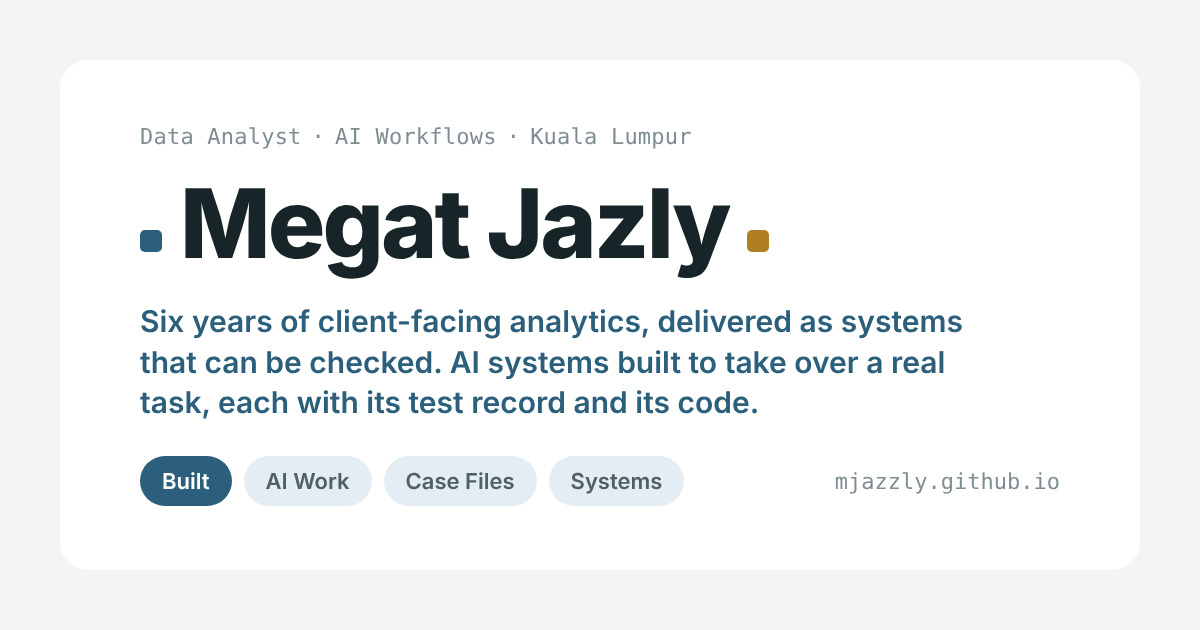
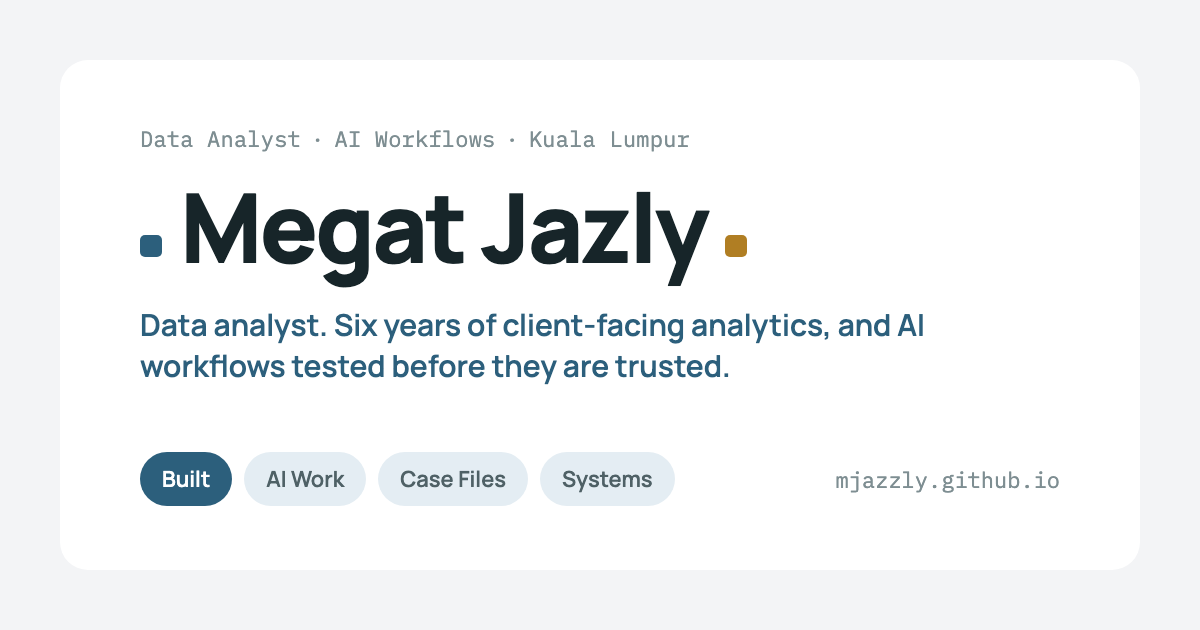
Add the field's terms beside the site's own in the glossaries, reconcile WORK-04's smallest model line and Built's tool count, and set the home line, meta and preview image to the new line under the name

diff --git a/aiwork.html b/aiwork.html
@@ -876,7 +876,7 @@
     </div>
     <h3>A weekly brief where every sentence shows where it came from</h3>
     <p class="replaces"><b>Replaces:</b> the afternoon spent pulling the brief together by hand, and a page whose sentences cannot be traced afterwards. Every sentence on the released page <b>names the file and the line it came from</b>, and the same week written twice gives the same facts from the same sources.</p>
-    <div class="fit"><p><b>For:</b> anyone who writes or signs off a weekly status: a programme lead, a team lead, a sponsor who has to stand behind what the page says.</p><dl class="measure"><div><dt>Trust</dt><dd>every sentence names its source; no false fact in ten runs</dd></div><div><dt>Possible</dt><dd>a weekly page a sponsor can stand behind, line by line</dd></div><div><dt>Cost</dt><dd>US$0.21 a brief; the smallest model misses one case</dd></div></dl></div>
+    <div class="fit"><p><b>For:</b> anyone who writes or signs off a weekly status: a programme lead, a team lead, a sponsor who has to stand behind what the page says.</p><dl class="measure"><div><dt>Trust</dt><dd>every sentence names its source; no false fact in ten runs</dd></div><div><dt>Possible</dt><dd>a weekly page a sponsor can stand behind, line by line</dd></div><div><dt>Cost</dt><dd>US$0.21 a brief, largest model; on the smallest it is below its bar, watched by the scorecard</dd></div></dl></div>
 
     <div class="case-foot"><button type="button" class="case-toggle" data-open="Read the entry" aria-expanded="true" aria-controls="work-04-body" hidden><span class="case-toggle-label">Read the entry</span><svg class="ic" aria-hidden="true"><use href="#ic-chevron"/></svg></button></div>
     <div class="case-body" id="work-04-body">
@@ -1096,7 +1096,7 @@
       <div class="row"><span class="tier">v1.0 · sweep, smallest</span><span class="marks"><i></i><i></i><i></i><i class="miss"></i></span><span class="score"><b>three of four builds</b> at their bar on the smallest model, for US$0.15 together. The sourced brief, then at v1.2, missed its bar.</span></div>
       <div class="row"><span class="tier">v1.0 · sweep, largest</span><span class="marks"><i></i><i></i><i></i><i class="miss"></i></span><span class="score"><b>three of four</b>, for US$4.68. The sourced brief missed State A on a page identical to its earlier passing run, and <b>the comparison named the case</b>. The cause was the brief's own state check, fixed in its v1.3.</span></div>
       <div class="row"><span class="tier">v1.1 · own cases</span><span class="marks"><i></i><i></i><i></i><i></i><i class="decline"></i><i class="decline"></i><i></i><i></i><i></i></span><span class="score"><b>nine of nine</b> of its own test cases: both planted misses named by their case, the live one for US$0.017, the doubled price named with its share and nothing else, <b>the answer file found before any model call</b>, and the broken file refused with the field named.</span></div>
-      <div class="row"><span class="tier">v1.1 · sweep, both</span><span class="marks"><i class="miss"></i><i></i></span><span class="score">The sourced brief at v1.3: <b>bar met on the largest model</b>, State A from a miss to a match. The smallest model still misses one case, so the largest stays the brief's smallest passing model.</span></div>
+      <div class="row"><span class="tier">v1.1 · sweep, both</span><span class="marks"><i class="miss"></i><i></i></span><span class="score">The sourced brief at v1.3: <b>bar met on the largest model</b>, State A from a miss to a match. The smallest model still missed one case, so the largest stays the brief's smallest passing model.</span></div>
       <div class="row"><span class="tier">v1.2 · in CI</span><span class="marks"><i></i><i></i><i></i><i></i><i></i><i></i></span><span class="score"><b>six sweeps on the smallest model</b>, every build at the commit pinned in its lock file, each committed on a green run for about US$0.15. A push starts one; the weekly run is started by an outside scheduler, because GitHub's own scheduler created no run here. Only a build that passes on the smallest model can turn a run red.</span></div>
       <div class="row"><span class="tier">v1.2 · rerun</span><span class="marks"><i class="miss"></i><i></i></span><span class="score">In one sweep the sourced brief missed <b>A section with no source</b> on the smallest model, a case it had held. <b>One rerun matched it</b>, so the run stayed green with the miss listed. The rerun missed three other cases, so the brief is below its bar there again and is watched, not gated.</span></div>
       <div class="row"><span class="tier">v1.2 · fifth build</span><span class="marks"><i></i><i></i><i></i><i class="miss"></i><i></i></span><span class="score">The contact pipeline joins with its eight earlier runs brought in, <b>43 of 43 on both models</b>. The first sweep of five builds: <b>four at their bar on the smallest model</b>; the sourced brief missed its bar there.</span></div>
@@ -1783,15 +1783,18 @@
   <div class="case-body" id="words-body">
   <ul class="words">
     <li><b>Test case.</b> One input with a known right answer. The first two entries have eight each: five ordinary, one it must decline, two that test what it remembers between runs. The third has twenty-eight questions: twenty with exact answers, six it must stop on or refuse, two asked a second time. The fourth has eight weekly briefs: six test weeks, one written twice, one with a new note added.<span> The fifth has nine that test the scorecard itself: a clean sweep, a planted miss in a recorded run, a rule removed from a real skill, a doubled price, an answer file left where the model could read it, a file with a field missing, the same run twice, a new version and a new build. The sixth has one test round of 29 contact rows, each a planted case, with 22 job titles to read and three stop tests. The seventh runs the first entry's eight cases again, on three chat platforms, from one sheet with no code. The eighth runs them in CI on every change, before the change can reach the live service.</span></li>
-    <li><b>Claim.</b> One checkable fact in a sentence, such as a number, a name, a date or a quote, paired with the file and the line or row it came from.</li>
+    <li><b>Claim.</b> One checkable fact in a sentence, such as a number, a name, a date or a quote, paired with the file and the line or row it came from. Tying each sentence to its source this way is called <b>grounding</b>.</li>
+    <li><b>Hallucination.</b> A statement from a model that no source supports. The sourced brief removes any sentence it cannot tie to a source before the page is released.</li>
+    <li><b>Structured output.</b> An answer returned in a fixed shape, such as the same five sections or a tracker row, so code can check it.</li>
     <li><b>Expected result.</b> The right answer for a case, written down before the first run, so the run is marked against it and never the other way round.</li>
-    <li><b>Blind run.</b> A test where the model cannot see the expected answers.</li>
+    <li><b>Blind run.</b> A test where the model cannot see the expected answers. Testing a model this way, against answers written first, is what the field calls <b>evaluation</b>, or <b>evals</b>.</li>
     <li><b>Test harness.</b> A script that runs every test case the same way, checks the results against the expected ones, and records the run with its cost.</li>
     <li><b>Sweep.</b> One run of every build on every model, started by one command.</li>
     <li><b>Regression.</b> A case that passed before and misses after a change.</li>
-    <li><b>Stop gate.</b> A rule in code that halts the run until a person answers, or declines the task outright.</li>
-    <li><b>Tool.</b> A function in code the model calls by itself to act. A tool server is the program that holds the tools.</li>
-    <li><b>Model tier.</b> The size of model, from the largest to the smallest and cheapest. A build that passes on a smaller tier costs less to run.</li>
+    <li><b>Stop gate.</b> A rule in code that halts the run until a person answers, or declines the task outright. Also called a <b>guardrail</b>. Where the gate waits for a person, the field calls it <b>human in the loop</b>.</li>
+    <li><b>Tool.</b> A function in code the model calls by itself to act. A tool server is the program that holds the tools. A model calling a tool is <b>tool calling</b>. The tool servers here connect through <b>MCP</b> (Model Context Protocol), a shared standard for connecting tools to a model.</li>
+    <li><b>Agent.</b> A model that decides its own next step and calls tools in a loop, until the task is done or a stop gate halts it. The first four entries and the eighth are agents.</li>
+    <li><b>Model tier.</b> The size of model, from the largest to the smallest and cheapest. A build that passes on a smaller tier costs less to run. Model here means a <b>large language model (LLM)</b>.</li>
     <li><b>Cache.</b> Context the model has already read, kept so the next call does not pay for reading it again.</li>
     <li><b>Version.</b> One numbered state of the rules. A version changes only after a run, and the run that earned it is on the record.</li>
     <li><b>Repository.</b> A project's code and its full history, kept on GitHub where anyone can read it, run it, and see how it changed.</li>

diff --git a/index.html b/index.html
@@ -3,7 +3,7 @@
 <head>
 <meta charset="UTF-8"><meta name="viewport" content="width=device-width, initial-scale=1.0"><link rel="preconnect" href="https://fonts.googleapis.com"><link rel="preconnect" href="https://fonts.gstatic.com" crossorigin><link href="https://fonts.googleapis.com/css2?family=Manrope:wght@400;500;600;700;800&family=IBM+Plex+Mono:wght@400;500&display=swap" rel="stylesheet"><link rel="stylesheet" href="style.css?v=20261031e"><link rel="stylesheet" href="motion.css?v=20261109"><link rel="icon" href="favicon.ico" sizes="any"><link rel="icon" href="favicon.svg" type="image/svg+xml"><link rel="icon" href="favicon-192.png" sizes="192x192" type="image/png"><link rel="icon" href="favicon-32.png" sizes="32x32" type="image/png"><link rel="apple-touch-icon" href="apple-touch-icon.png"><meta name="theme-color" content="#2C5F7C">
 <title>Megat Jazly, Data Analyst, AI Workflows, Kuala Lumpur</title>
-<meta name="description" content="Data analyst in Kuala Lumpur. Six years of client-facing analytics, delivered as systems that can be checked, and AI workflows tested before use."><meta property="og:type" content="website"><meta property="og:site_name" content="Megat Jazly"><meta property="og:title" content="Megat Jazly, Data Analyst, AI Workflows, Kuala Lumpur"><meta property="og:description" content="Data analyst in Kuala Lumpur. Six years of client-facing analytics, delivered as systems that can be checked, and AI workflows tested before use."><meta property="og:url" content="https://mjazzly.github.io/"><meta property="og:image" content="https://mjazzly.github.io/preview.png"><meta property="og:image:width" content="1200"><meta property="og:image:height" content="630"><meta name="twitter:card" content="summary_large_image"><script type="application/ld+json">{"@context":"https://schema.org","@type":"Person","name":"Megat Jazly","jobTitle":"Data Analyst","url":"https://mjazzly.github.io/","sameAs":["https://linkedin.com/in/megatjazly","https://github.com/mjazzly"]}</script><meta name="google-site-verification" content="sAA0qM2AJdBLmxCYuufhG49FSe-umtfh3qqlvX_P1nM">
+<meta name="description" content="Data analyst. Six years of client-facing analytics, and AI workflows tested before they are trusted."><meta property="og:type" content="website"><meta property="og:site_name" content="Megat Jazly"><meta property="og:title" content="Megat Jazly, Data Analyst, AI Workflows, Kuala Lumpur"><meta property="og:description" content="Data analyst. Six years of client-facing analytics, and AI workflows tested before they are trusted."><meta property="og:url" content="https://mjazzly.github.io/"><meta property="og:image" content="https://mjazzly.github.io/preview.png"><meta property="og:image:width" content="1200"><meta property="og:image:height" content="630"><meta name="twitter:card" content="summary_large_image"><script type="application/ld+json">{"@context":"https://schema.org","@type":"Person","name":"Megat Jazly","jobTitle":"Data Analyst","url":"https://mjazzly.github.io/","sameAs":["https://linkedin.com/in/megatjazly","https://github.com/mjazzly"]}</script><meta name="google-site-verification" content="sAA0qM2AJdBLmxCYuufhG49FSe-umtfh3qqlvX_P1nM">
 </head>
 <body>
 <!--ICONS-->
@@ -110,8 +110,8 @@
   <div class="hero-text">
   <div class="eyebrow">Data Analyst <span class="dot">·</span> AI Workflows <span class="dot">·</span> Kuala Lumpur</div>
   <h1>Megat Jazly</h1>
-  <div class="role">Data analyst. Six years of client-facing analytics, delivered as systems that can be checked.</div>
-  <p class="thesis">I answer business questions with data, then turn the recurring parts into documented, validated systems for clients across the US, APAC and EMEA. Around that delivery I build AI systems that take over a real task and are tested before they are trusted: <a href="aiwork.html">eight of them, with their test records, are on AI Work</a>, and <a target="_blank" href="https://data-answers.vercel.app" rel="noopener">one answers questions live</a>.</p>
+  <div class="role">Data analyst. Six years of client-facing analytics, and AI workflows tested before they are trusted.</div>
+  <p class="thesis">I answer business questions with data, then turn the recurring parts into documented, validated systems for clients across the US, APAC and EMEA. Around that delivery I build AI systems that take over a real task: <a href="aiwork.html">eight of them, with their test records, are on AI Work</a>, and <a target="_blank" href="https://data-answers.vercel.app" rel="noopener">one answers questions live</a>.</p>
   <div class="hero-links">
     <a href="mailto:megatjazly@gmail.com" title="megatjazly@gmail.com"><svg class="ic" aria-hidden="true"><use href="#ic-mail"/></svg>Email</a>
     <a target="_blank" href="https://linkedin.com/in/megatjazly" rel="me noopener" title="linkedin.com/in/megatjazly"><svg class="ic" viewBox="0 0 16 16" aria-hidden="true" fill="currentColor" stroke="none"><path d="M0 1.146C0 .513.526 0 1.175 0h13.65C15.474 0 16 .513 16 1.146v13.708c0 .633-.526 1.146-1.175 1.146H1.175C.526 16 0 15.487 0 14.854zm4.943 12.248V6.169H2.542v7.225zm-1.2-8.212c.837 0 1.358-.554 1.358-1.248-.015-.709-.52-1.248-1.342-1.248S2.4 3.226 2.4 3.934c0 .694.521 1.248 1.327 1.248zm4.908 8.212V9.359c0-.216.016-.432.08-.586.173-.431.568-.878 1.232-.878.869 0 1.216.662 1.216 1.634v3.865h2.401V9.25c0-2.22-1.184-3.252-2.764-3.252-1.274 0-1.845.7-2.165 1.193v.025h-.016l.016-.025V6.169h-2.4c.03.678 0 7.225 0 7.225z"/></svg>LinkedIn</a>

diff --git a/built.html b/built.html
@@ -158,7 +158,7 @@
       <span class="shape"><svg class="ic" aria-hidden="true"><use href="#ic-server"/></svg>Shape 4</span>
       <h3>A tool server the model calls</h3>
       <ul>
-        <li><b>Meeting Tracker Assistant</b><span>ten tools, four stop gates, a test harness</span></li>
+        <li><b>Meeting Tracker Assistant</b><span>ten tools and three for the library check, four stop gates, a test harness</span></li>
         <li><b>Spreadsheet normaliser</b><span>nine tools, four stop gates, one table out</span></li>
         <li><b>Data answers</b><span>seven tools, every number from a defined metric</span></li>
         <li><b>Sourced brief</b><span>five tools, every sentence checked against its source</span></li>
@@ -373,7 +373,7 @@
       <div class="gate"><span class="g"><svg class="ic" aria-hidden="true"><use href="#ic-hand"/></svg>Stops to ask</span><b>A due date before its own meeting.</b> The record tool refuses the row.</div>
       <div class="gate"><span class="g"><svg class="ic" aria-hidden="true"><use href="#ic-stop"/></svg>Declines</span><b>A transcript marked confidential</b> is left unread and reported as declined.</div>
     </div>
-    <p class="how"><b>How it runs:</b> a small Node.js tool server on my machine, connected through MCP, holding the ten tools; the Claude desktop app starts it and calls the tools as it works. It reads its transcripts from a Google Drive folder, and the tracker and the run log live in files on disk, so next week it reads only the new transcripts and <b>never rewrites an old row</b>. The contacts table stands in for a CRM; the data is synthetic.</p>
+    <p class="how"><b>How it runs:</b> a small Node.js tool server on my machine, connected through MCP, holding the ten tools and the library check's three; the Claude desktop app starts it and calls the tools as it works. It reads its transcripts from a Google Drive folder, and the tracker and the run log live in files on disk, so next week it reads only the new transcripts and <b>never rewrites an old row</b>. The contacts table stands in for a CRM; the data is synthetic.</p>
     <p class="how">The tracker and four more builds in the same shape, each with its record and its code, are on <a href="aiwork.html"><b>AI Work</b></a>.</p>
     <div class="record">
       <p class="rec-head"><b>Tested:</b> five cases plus one it must decline, the expected results written before the first run, rerun blind on two model tiers.</p>
@@ -496,13 +496,13 @@
     <li><b>Claude Project.</b> A workspace with standing instructions and files, so the same context is in place every time. ChatGPT's version is a custom GPT.</li>
     <li><b>Skill.</b> A packaged set of instructions Claude loads for a specific task. Some carry scripts.</li>
     <li><b>Script.</b> Code that does a step the same way every time, without the model deciding.</li>
-    <li><b>Tool.</b> A function in code the model calls by itself to act. A prompt asks it to write; a tool lets it do.</li>
-    <li><b>Tool server.</b> The program that holds the tools. Mine runs on my Mac; the Claude desktop app starts it.</li>
+    <li><b>Tool.</b> A function in code the model calls by itself to act. A prompt asks it to write; a tool lets it do. A model calling a tool is <b>tool calling</b>.</li>
+    <li><b>Tool server.</b> The program that holds the tools. Mine runs on my Mac; the Claude desktop app starts it. It connects through <b>MCP</b> (Model Context Protocol), a shared standard for connecting tools to a model.</li>
     <li><b>API.</b> The way code calls Claude directly, with a key, outside the chat app. The harness and the web app use it.</li>
     <li><b>Node.js and Next.js.</b> Node.js runs JavaScript outside the browser. Next.js is a website framework built on it: the pages and the server code in one project.</li>
     <li><b>Test harness.</b> A script that runs every test case the same way, checks the results against answers written first, and records them.</li>
-    <li><b>Blind run.</b> A test where the model cannot see the expected answers.</li>
-    <li><b>Model tier.</b> The size of model, from the largest to the smallest and cheapest.</li>
+    <li><b>Blind run.</b> A test where the model cannot see the expected answers. Testing a model this way, against answers written first, is what the field calls <b>evaluation</b>, or <b>evals</b>.</li>
+    <li><b>Model tier.</b> The size of model, from the largest to the smallest and cheapest. Model here means a <b>large language model (LLM)</b>.</li>
     <li><b>Claude Code.</b> Claude working inside a project folder: it writes the code, runs it and fixes it.</li>
     <li><b>Spec and tickets.</b> The written plan, broken into small pieces of work, each with a clear finish line.</li>
     <li><b>Python, DuckDB, pytest.</b> The language, a small database that lives in a file, and Python's testing tool.</li>

diff --git a/frames.html b/frames.html
@@ -190,7 +190,7 @@
 <div data-name="Before the words, the structure" class="shot">
   <div class="title-card">
   <h2><span class="badge"><svg class="ic" aria-hidden="true"><use href="#ic-music"/></svg></span>Before the words, the structure</h2>
-  <p class="lead">A song is recognised by its shape long before the words arrive. <b>A prompt that works is written the same way: the structure is fixed first, and the person using it brings the words.</b> A <b>prompt</b> is the request as written to an AI assistant.</p>
+  <p class="lead">A song is recognised by its shape long before the words arrive. <b>A prompt that works is written the same way: the structure is fixed first, and the person using it brings the words.</b> A <b>prompt</b> is the request as written to an AI assistant. Writing a prompt to a fixed structure and testing it on set cases is often called <b>prompt engineering</b>.</p>
   </div>
   <div class="ex stepper" data-stepper>
     <div class="ex-head"><span class="badge"><svg class="ic" aria-hidden="true"><use href="#ic-layers"/></svg></span><div class="sys-head"><span class="sys-id">FRAME-02 · The song bar, and each part's share of the writing grade</span></div></div>

diff --git a/dashboards.html b/dashboards.html
@@ -325,7 +325,7 @@
     <li><b>Month on month growth.</b> The change in revenue from the month before, as a percent of the month before.</li>
     <li><b>Agreement check.</b> The dashboard's own measures run on the assistant's test questions, each answer compared with the expected one, value by value.</li>
     <li><b>Expected answer.</b> The right answer to a test question, generated from a seed with the data, before any run.</li>
-    <li><b>Gate.</b> A point where the assistant must stop or refuse instead of giving a number. A question whose right answer is a refusal has no number to compare.</li>
+    <li><b>Gate.</b> A point where the assistant must stop or refuse instead of giving a number. A question whose right answer is a refusal has no number to compare. Also called a <b>guardrail</b>.</li>
     <li><b>Relationship.</b> A join between two tables in a report. With one table there are none, so no number can be counted twice through one.</li>
     <li><b>Publish to web.</b> Power BI's public link: anyone with it can view the report, with no sign-in.</li>
     <li><b>Slicer.</b> A control on the report that picks what every part shows: here, the month and the branches.</li>

diff --git a/output-06.html b/output-06.html
@@ -165,7 +165,7 @@
   <ul class="words">
     <li><b>Round.</b> One contact export run through every stage once, with its own run record.</li>
     <li><b>Row key.</b> The name the code gives each row when it reads the export. The run record uses it instead of a name or an email.</li>
-    <li><b>Stop.</b> A point where the run halts and prints a count. It goes on only when that stop is confirmed, and a count confirmed wrong halts it.</li>
+    <li><b>Stop.</b> A point where the run halts and prints a count. It goes on only when that stop is confirmed, and a count confirmed wrong halts it. Also called a <b>guardrail</b>. Because it waits for a person to confirm, the field calls it <b>human in the loop</b>.</li>
     <li><b>Scope.</b> The rules in code that keep the US and Canada, take out a blank or broken email, and keep the first of two rows with one email.</li>
     <li><b>Seniority floor.</b> The level a job title must reach to stay: director and above. The model reads the title; the code applies the floor.</li>
     <li><b>Verdict.</b> What the email validation stub says of an address: valid and suspect stay, invalid, honeypot and no result leave.</li>

diff --git a/output-01.html b/output-01.html
@@ -177,7 +177,7 @@
     <li><b>Owner.</b> The person named in the same sentence as the action, looked up in the contacts table. When no one is named, the owner is <b>not stated</b>, never guessed.</li>
     <li><b>Due.</b> The date as said in the meeting, turned into a calendar date from the meeting's own date. When it cannot be, it is kept as said.</li>
     <li><b>Status.</b> <b>Open</b> until done, <b>closed</b> when a later transcript says it happened, <b>confirm</b> while its date waits on a meeting date.</li>
-    <li><b>Gate.</b> A point in the code where the run must stop and ask a person before it writes anything for that transcript.</li>
+    <li><b>Gate.</b> A point in the code where the run must stop and ask a person before it writes anything for that transcript. Also called a <b>guardrail</b>. A gate that waits for a person is what the field calls <b>human in the loop</b>.</li>
     <li><b>Contacts table.</b> A list of names, companies and roles that stands in for a CRM.</li>
     <li><b>Run.</b> One pass over the folder by one model, recorded with its id, its tokens and its cost.</li>
   </ul>

diff --git a/scorecard.html b/scorecard.html
@@ -193,7 +193,7 @@
   <ul class="words">
     <li><b>Build.</b> One of the AI systems on the AI Work page, each with its own test cases, checker and pass rule.</li>
     <li><b>Case.</b> One test input with a known right answer, written down before the first run. A run matches a case when its result equals that answer.</li>
-    <li><b>Gate.</b> A case where the build must stop and ask, or decline the task. The gate is held when the code did so.</li>
+    <li><b>Gate.</b> A case where the build must stop and ask, or decline the task. The gate is held when the code did so. The stop it tests is also called a <b>guardrail</b>.</li>
     <li><b>Bar.</b> The build's own pass rule, such as every case matched and every gate held. The bar is met or not met; there is no partial credit.</li>
     <li><b>Smallest passing.</b> The cheapest model that meets a build's bar. The cost of a full sweep adds up one run per build on that model.</li>
     <li><b>Sweep.</b> One run of every build on every model, started by one command and compared with the sweep before it.</li>

diff --git a/output-04.html b/output-04.html
@@ -233,7 +233,7 @@
   <ul class="words">
     <li><b>Source.</b> One file the week's page is written from. A row is cited by its id, a note or a log by its line number.</li>
     <li><b>Reference.</b> The source and the row or line a sentence rests on, in square brackets at the end of the sentence.</li>
-    <li><b>Claim.</b> One checkable part of a sentence: a number, a name, an owner, a status, a date, a metric, a period or a change.</li>
+    <li><b>Claim.</b> One checkable part of a sentence: a number, a name, an owner, a status, a date, a metric, a period or a change. Tying each sentence to its source this way is called <b>grounding</b>.</li>
     <li><b>Check.</b> The code compares every claim with the line it cites. A claim that does not hold there fails.</li>
     <li><b>Removed.</b> A sentence with a failed claim, or with anything checkable that cites nothing, is taken out whole and listed with its reason.</li>
     <li><b>Declined.</b> A source whose first line marks it confidential is not read, and nothing from it reaches the page.</li>

diff --git a/clarity.html b/clarity.html
@@ -201,6 +201,7 @@
     <li><b>App.</b> A front door other people open and use on their own, with their own inputs.</li>
     <li><b>Test harness.</b> A script that runs every test case the same way and counts the result, so a change can be checked against the run before it.</li>
     <li><b>Conversation.</b> One thread with an assistant. Everything said in it stays in view for every answer that follows.</li>
+    <li><b>Context window.</b> How much a model can hold in view in one conversation. The third game is about what to do as it fills.</li>
     <li><b>Carry-over summary.</b> A few lines of what is settled (the facts, the decisions, what was fixed and why), written to start a new conversation on the same task.</li>
     <li><b>Model tier.</b> The size of model, from small and fast to deep reasoning. A larger tier reasons further, and costs more and takes longer per request.</li>
     <li><b>Test case.</b> One input with a known right answer, used to check that a prompt or a model does what it should before it is trusted.</li>

diff --git a/scripts/preview.py b/scripts/preview.py
@@ -31,7 +31,7 @@ html = """<!DOCTYPE html><html><head><meta charset="utf-8">
 <div class="panel">
   <div class="eyebrow">Data Analyst<span>·</span>AI Workflows<span>·</span>Kuala Lumpur</div>
   <div class="name"><i class="seam silver"></i>Megat Jazly<i class="seam gold"></i></div>
-  <div class="role">Six years of client-facing analytics, delivered as systems that can be checked. AI systems built to take over a real task, each with its test record and its code.</div>
+  <div class="role">Data analyst. Six years of client-facing analytics, and AI workflows tested before they are trusted.</div>
   <div class="pages"><span class="on">Built</span><span>AI Work</span><span>Case Files</span><span>Systems</span></div>
   <div class="url">mjazzly.github.io</div>
 </div>

diff --git a/CLAUDE.md b/CLAUDE.md
@@ -3,7 +3,7 @@
 This is Megat Jazly's portfolio site (GitHub Pages, branch `main`, no build step: the HTML files are the site).
 Positioning (re-led 1 Oct 2026): **data analyst as the door, AI workflows as the headline**. The eyebrow reads "Data Analyst · AI Workflows · Kuala Lumpur"; SQL appears only in the stack list, the certs and the hidden live blocks; never in the title, eyebrow, thesis, meta descriptions or any sentence that calls it a foundation, specialism or current focus (Megat is still learning SQL and has paused it to focus on AI). The word "enablement" stays off the site, and so do "agentic", "FDE" and "real users". The AI toolkit is Megat's own practice; never write it as team adoption at a client or employer. Every edit must keep all of this.
 
-The Built page (added 27 Oct 2026) is the record of what Megat has built with Claude, at five depths. Every line on it is a fact from the record; a number on it changes only when the record changes. "Deployed" is said only of the Sustainability Self-Check web app and, since 31 Oct 2026, of WORK-03 data answers, whose public demo runs at https://data-answers.vercel.app on the smallest model with a daily cap, a per-visitor cap and its own spend limit; and, since 7 Nov 2026, of WORK-08, the meeting tracker run as a hosted service on a daily schedule (https://meeting-tracker-sable.vercel.app), live only from a green CI run and with a day of record. WORK-01 itself runs on his machine on synthetic data and is never called deployed; since 1 Nov 2026 it reads its transcripts from a Google Drive folder through the Drive API (the local folder remains for the blind harness), and the site says exactly that. "MCP" appears in one sentence only ("a small Node.js tool server on my machine, connected through MCP"); everywhere else say "connected tools". Client work on the page is described without the client.
+The Built page (added 27 Oct 2026) is the record of what Megat has built with Claude, at five depths. Every line on it is a fact from the record; a number on it changes only when the record changes. "Deployed" is said only of the Sustainability Self-Check web app and, since 31 Oct 2026, of WORK-03 data answers, whose public demo runs at https://data-answers.vercel.app on the smallest model with a daily cap, a per-visitor cap and its own spend limit; and, since 7 Nov 2026, of WORK-08, the meeting tracker run as a hosted service on a daily schedule (https://meeting-tracker-sable.vercel.app), live only from a green CI run and with a day of record. WORK-01 itself runs on his machine on synthetic data and is never called deployed; since 1 Nov 2026 it reads its transcripts from a Google Drive folder through the Drive API (the local folder remains for the blind harness), and the site says exactly that. "MCP" appears in that sentence ("a small Node.js tool server on my machine, connected through MCP"), in "The words on this page", and once beside "connected tools" on a page (see Amended 12 Nov 2026); everywhere else say "connected tools". Client work on the page is described without the client.
 
 ## Files
 - `built.html` Built: what he has built with Claude (five numbers, five depths, the Meeting Tracker swimlane, the test harness, three counts, built-with strip, the words on the page)
@@ -116,3 +116,8 @@ The Built page (added 27 Oct 2026) is the record of what Megat has built with Cl
 - **Every figure is read, never typed**: `scripts/dashboards.py` writes `<!--DASH:02-->`, `<!--DASHRUN:02-->` and `<!--DASHREC:02-->` from `../rollout-review` (CHECK.md by question number, README.md for the storylines, the headcount and the rules pattern, PUBLISH.md for the link, the report's `visual.json` for the boxes); it refuses a check that is not a full match and fails when the head's data line drifts from README and the design note. The pictures are `dashboards/dash-02-*.png`, retaken with `python3 scripts/dashboards.py --shoot 02` after any republish. A figure that is not in those files does not go on the entry (the report's count of uses taken up is shown in its picture, not in a line).
 - **Index**: "Two dashboards, at a glance" (`section#index`, `.tiles.entries.two`) under the hero; the nav line reads "Two dashboards, two decisions, every number checked" and the home Craft door says "dashboards".
 - **Frames**: FRAME-04's Scale stage reads "from the question log, the usage dashboards and the check-in" (the check-in links `#check-in`), and the frame ends in one line (`p.lead.f4-dash`) linking `dashboards.html#dash-02`. The four source tiles and risers stay four: the check-in is FRAME-01's.
+
+## Amended 12 Nov 2026
+- Amended 12 Nov 2026. The noun "agent" is allowed where it is true: a model that decides its next step and uses tools in a loop (WORK-01, 02, 03, 04 and 08, and WORK-09's drafter and reviewer). Define it in one plain sentence where it first appears on a page, and let the mechanics carry the claim (the tools, the stops, the record). WORK-05, WORK-06 and WORK-07 are never called agents. "Agentic" stays off the site and stays in BANNED_WORDS; it may be used on the CV and LinkedIn where a job ad uses it. "FDE", "enablement" and "real users" stay off as before.
+- Standard terms. Where the site uses its own word, the field's common term appears once beside it at first use on the page and in "The words on this page": stop gate (guardrail, human in the loop); blind run, test case, harness (evaluation, evals); every sentence carries its source (grounding); a statement no source supports (hallucination); fixed sections or one table (structured output); connected tools (tool calling, MCP); model (large language model, LLM). A term is added only where the build does what the term means. RAG is not claimed: no build retrieves. "MCP" may now appear in "The words on this page" and once beside "connected tools" on a page; everywhere else "connected tools" stays.
+- First pass, 12 Nov 2026 (his call): the terms went into "The words on this page" only (AI Work, Built, Scorecard, Dashboards, output-01, output-04, output-06), plus "Context window" on Clarity and "prompt engineering" in FRAME-02's first lead; the first-use additions in the body are still to be drafted for his approval. The hallucination line describes what the code does and never calls the removed sentences hallucinations: the record says each was a true fact claimed the wrong way.
